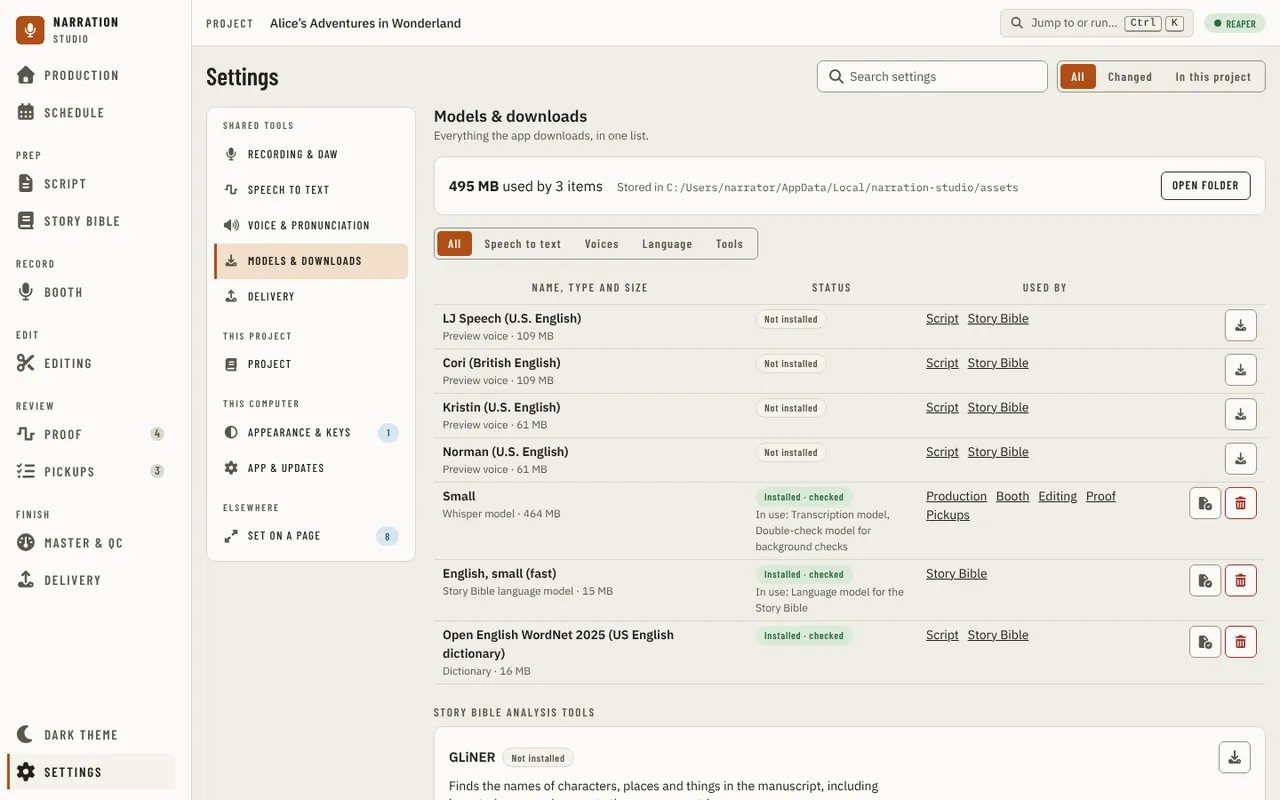
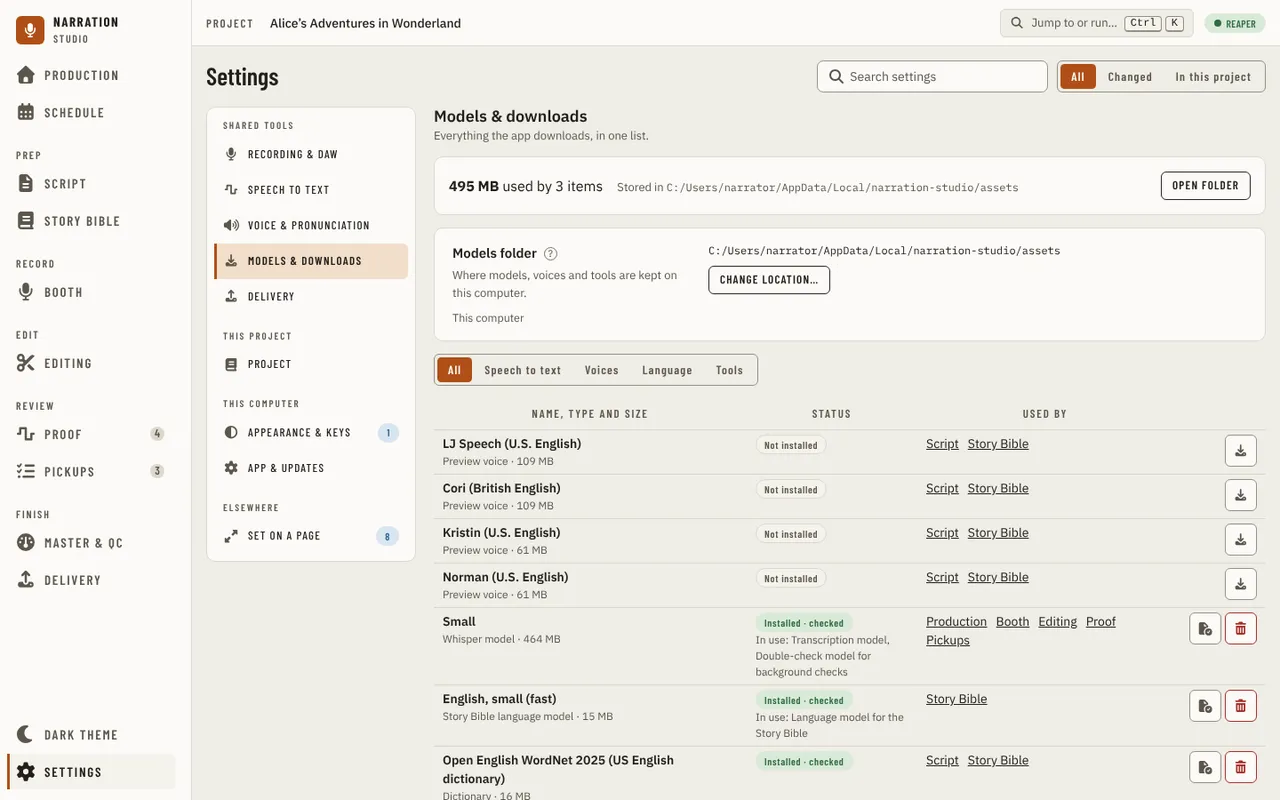
docs(settings): the Models folder in the guide, threat model, data files and screenshots
Claude-Session: https://claude.ai/code/session_01EBTykexrdZFchRHE5VJWsN

diff --git a/src/studio/ui/src/interactionFeedback/settings.ts b/src/studio/ui/src/interactionFeedback/settings.ts
@@ -31,7 +31,7 @@ export const settingsFeedback: Record<string, FeedbackRow> = {
   'src/components/settings/models/AssetsStore.tsx::assetsInstallState#1': row('effect', 'download', 'inline', 'na', 'poll', 'inline', 'no', 'ok', 'A download already running when the page opened is followed through the list activeJobId, so its bar is on screen at once.'),
   'src/components/settings/models/AssetsStore.tsx::assetsInstallState#2': row('timer', 'download', 'inline', 'na', 'poll', 'inline', 'no', 'ok', 'The install poll, every 400 ms: the bar moves with the bytes and a failed poll is written in the row.'),
   'src/components/settings/models/AssetsStore.tsx::assetsInstallCancel#1': row('click', 'download', 'inline', 'none', 'ui', 'inline', 'no', 'ok', 'Cancel is drawn only while bytes arrive; the page announces the cancel, or the row says why it could not be stopped.'),
-  'src/components/settings/models/AssetsStore.tsx::assetsFolderPick#1': row('click', 'os-dialog', 'dialog', 'dialog', 'ui', 'toast', 'no', 'ok', 'Change location asks first (a confirm that names what a move does), and its Choose a folder button opens the system folder dialog; the dialog is the acknowledgment and a second press is impossible behind it. Closing it without a folder starts nothing and says nothing; a refusal to open it is an error toast.'),
+  'src/components/settings/models/AssetsStore.tsx::assetsFolderPick#1': row('click', 'os-dialog', 'pending', 'pending', 'ui', 'toast', 'no', 'ok', 'Change location asks first (a confirm that names what a move does), and its Choose a folder button opens the system folder dialog; Change location spins and ignores another press until that dialog is answered. Closing it without a folder starts nothing and says nothing; a refusal to open it is an error toast.'),
   'src/components/settings/models/AssetsStore.tsx::assetsMoveStart#1': row('click', 'job', 'dialog', 'host', 'poll', 'toast', 'no', 'ok', 'Starts the copy, check and switch of the downloads to the chosen folder and opens the work dialog at once. The host refuses, before writing anything, a folder that cannot work (inside the current one, holding it, not empty, a file, relative), a download in progress, a second move and an unanswered old copy; each refusal is an error toast in the host words and no dialog. Reset on the row is the same call with an empty target, after its own confirm.'),
   'src/components/settings/models/AssetsStore.tsx::assetsMoveState#1': row('timer', 'job', 'dialog', 'na', 'poll', 'dialog', 'no', 'ok', 'The move poll, every 400 ms: the bar moves with the real bytes of the copy and the check, and a failed poll turns the work dialog to its error state with the reason and Close. The move itself runs in the host, so leaving Settings does not stop it.'),
   'src/components/settings/models/AssetsStore.tsx::assetsMoveState#2': row('effect', 'instant', 'na', 'na', 'poll', 'inline', 'yes', 'ok', 'A move already running when the page opened is followed, so its dialog is on screen; with none running it reads one small answer and draws nothing.'),

diff --git a/src/studio/ui/src/components/settings/models/ModelsFolder.tsx b/src/studio/ui/src/components/settings/models/ModelsFolder.tsx
@@ -45,6 +45,8 @@ export function ModelsFolderControl() {
   const store = useAssetsStore();
   const { catalog, move } = store;
   const [asking, setAsking] = useState<'change' | 'reset'>();
+  // The system's folder dialog is open: another press of Change location waits for it.
+  const [picking, setPicking] = useState(false);
   const [started, setStarted] = useState(() => Date.now());
   const [now, setNow] = useState(() => Date.now());
   const running = move !== undefined && isMoveRunning(move);
@@ -68,13 +70,15 @@ export function ModelsFolderControl() {
       await begin('');
       return;
     }
+    setPicking(true);
     const folder = await store.pickFolder();
+    setPicking(false);
     if (folder !== '') await begin(folder);
   };
 
   return (
     <>
-      <Button variant="secondary" size="sm" className="flex-none" onClick={() => setAsking('change')}>
+      <Button variant="secondary" size="sm" className="flex-none" pending={picking} onClick={() => setAsking('change')}>
         Change location…
       </Button>
       {catalog.custom && (

diff --git a/src/studio/ui/tests/visual/drivers/settings.ts b/src/studio/ui/tests/visual/drivers/settings.ts
@@ -297,7 +297,10 @@ export const settingsDrivers: Record<string, Driver> = {
     await startMove(page);
     await page.getByRole('progressbar', { name: 'Moving models and downloads progress' }).waitFor();
     await page.getByText('Copying the models to the new folder…').waitFor();
-    await page.getByText(/\d+(\.\d+)? (MB|GB) of /).waitFor();
+    await page
+      .getByText(/\d+(\.\d+)? (MB|GB) of /)
+      .first()
+      .waitFor();
   },
   'models-moved': async (page) => {
     await openModels(page, '?mockMove=moved');

diff --git a/docs/guides/using-the-app/settings.md b/docs/guides/using-the-app/settings.md
@@ -184,26 +184,8 @@ for longer.
 ## Models and downloads
 
 One list of everything the app can keep on this computer: Whisper models, Moonshine models, the preview voices, the Story Bible language models, the dictionary, the wiktionary pronunciations and the MP3 encoder. Nothing downloads by itself, and
-removing one never touches your projects. Above the list, the disk the installed ones use and the folder they are kept in, with **Open folder** to show it in the file manager. When the list cannot be read, the message offers **Retry** and **Open the folder**.
+removing one never touches your projects. Above the list, the disk the installed ones use and the folder they are kept in, with **Open folder** to show it in the file manager, and under it the **Models folder** row, which [moves them to another folder](#models-folder). When the list cannot be read, the message offers **Retry** and **Open the folder**.
 Which one is *used* is chosen in the category that uses it; here you only get, check and remove them.
-
-### Models folder
-
-Under the disk bar, **Models folder** is where the downloads are kept: the folder in use, **Change location…** and, once you have moved them, a reset button. It is also found by searching for "location" or "folder", and by the **Changed** filter once it is not the default. Its **?** says what a move does.
-
-**Change location…** asks first (the question is below), then opens your computer's folder dialog. Choose an empty folder (make a new one in the dialog if you like; a folder inside the current one, or one that already holds files, is refused). The app copies everything it has downloaded, checks every copied file against the original, and only then uses the new folder, at once and for every kind of download. A bar shows the bytes of both passes and **Cancel** stops the move. A move waits while a download runs, and no download starts during it.
-
-![Settings - Models & downloads: Change location asks before it opens the folder dialog](../../images/ui/settings-models-folder-asking.webp)
-
-![Settings - Models & downloads while the downloads are being moved: a progress bar and Cancel](../../images/ui/settings-models-moving.webp)
-
-If you cancel, or anything fails (the folder is read-only, the disk is full, a disk is unplugged, a copied file does not match), the dialog says why and your models are exactly where they were: nothing is deleted, nothing changes, and a half copy is removed.
-
-When a move has finished, the old copy is still on your disk. The row says so, with **Delete old copy…** and **Keep it**. Deleting asks first and removes only the downloaded models, voices and tools in that folder, never anything else you keep there. It is refused while something that may still read the old copy is running. **Keep it** leaves the folder alone and stops asking. Until you answer, another move is not offered.
-
-![Settings - Models & downloads after a move: the new folder in use and the old copy waiting for an answer](../../images/ui/settings-models-moved.webp)
-
-The reset button next to **Change location…** moves the downloads back to the default folder (the per-user cache folder) the same way: copy, check, switch, then offer to delete the copy you left.
 
 ![Settings - Models & downloads: the disk used and each download with its state, size, what uses it and its actions](../../images/ui/settings-models.webp)
 
@@ -219,6 +201,24 @@ Each row says what it is, its type and size, its **Status**, **Used by** (pages)
 ![Settings - Models & downloads checking the files of the Whisper model: Checking the files in its row and the check icon spinning](../../images/ui/settings-models-checking.webp)
 
 With nothing downloaded, the page (its **?** gives the size, about 600 MB) offers **Download the recommended set** (the Small transcription model and the preview voice). Below the list, **Story Bible analysis tools** lists the optional tools that make the Story Bible scan better (GLiNER, BookNLP small and large), each with what it does, its size, where it downloads from and the memory it needs, and the **Offer better analysis when scanning** box. GLiNER (about 730 MB) finds the names of characters, places and things, including invented ones; BookNLP groups the ways a character is named and works out who speaks each line. **Download** asks first; a Story Bible scan then runs the basic rules and each tool you have (with both BookNLP sizes, the large one). **Remove** deletes a tool, and the scan goes back to the rules and whatever else is installed. A tool whose download failed says why in a message that stays until dismissed, and its row has **Try again** and **Dismiss**; when the files arrived and matched but could not be unpacked or saved, **Details** under the reason names the file and what went wrong, which is what to quote in a report. The download dialog that other pages open shows the same line under **Live activity**.
+
+### Models folder
+
+Under the disk bar, **Models folder** is where the downloads are kept: the folder in use, **Change location…** and, once you have moved them, a reset button. It is also found by searching for "location" or "folder", and by the **Changed** filter once it is not the default. Its **?** says what a move does.
+
+**Change location…** asks first (the question is below), then opens your computer's folder dialog. Choose an empty folder (make a new one in the dialog if you like; a folder inside the current one, or one that already holds files, is refused). The app copies everything it has downloaded, checks every copied file against the original, and only then uses the new folder, at once and for every kind of download. A bar shows the bytes of both passes and **Cancel** stops the move. A move is refused while a download runs, and no download starts during one.
+
+![Settings - Models & downloads: Change location asks before it opens the folder dialog](../../images/ui/settings-models-folder-asking.webp)
+
+![Settings - Models & downloads while the downloads are being moved: a progress bar and Cancel](../../images/ui/settings-models-moving.webp)
+
+If you cancel, or anything fails (the folder is read-only, the disk is full, a disk is unplugged, a copied file does not match), the dialog says why and your models are exactly where they were: nothing is deleted, nothing changes, and a half copy is removed.
+
+When a move has finished, the old copy is still on your disk. The row says so, with **Delete old copy…** and **Keep it**. Deleting asks first and removes only the downloaded models, voices and tools in that folder, never anything else you keep there. It is refused while something that may still read the old copy is running. **Keep it** leaves the folder alone and stops asking. Until you answer, another move is not offered.
+
+![Settings - Models & downloads after a move: the new folder in use and the old copy waiting for an answer](../../images/ui/settings-models-moved.webp)
+
+The reset button next to **Change location…** moves the downloads back to the default folder (the per-user cache folder) the same way: copy, check, switch, then offer to delete the copy you left.
 
 ## Delivery
 

diff --git a/docs/reference/data-files.md b/docs/reference/data-files.md
@@ -118,7 +118,7 @@ Files under `%APPDATA%\<data>` (if `APPDATA` is empty, `%USERPROFILE%\AppData\Ro
 
 | File | Location | Written by | Read by | Schema or golden | Retention | Notes |
 | --- | --- | --- | --- | --- | --- | --- |
-| [`global-settings.json`](../../src/studio/desktop/internal/settings/store.go) | `global-settings.json` | `SystemSaveSettings` (global scope), `WindowSaveZoom`, `AssetsMoveStart` and `AssetsMoveKeepOld` (the `Assets` section) | Every setting through `Store.Effective`; startup reads the debug-logging flag | `settings-*.json` (binding) | Kept. Deleting it loses every global setting and key binding | Kept aside; no version. A closed-choice key holding an unknown value, or a whole-number key outside its range, is skipped, as in the project file. `Teleprompter.input_source` (`daw` by default, or `chosen`) is whose microphone the Booth listens to while a DAW records; only the narrator's **Choose a different one** writes `chosen`, so a `Teleprompter.input_device` saved before the key existed stays the microphone for when no DAW records and never outranks the DAW's input. **Names a program the host runs**: `DAW.reaper_path` (see the project `settings.json` row). **Names a folder the host reads and writes**: `Assets.models_folder` is the folder the downloads are kept in when the narrator moved them (absent: the per-user cache folder); `Assets.previous_models_folder` is the old copy a finished move left, until the narrator deletes or keeps it. Only the move writes either: the `Assets` tool is not one `SystemSaveSettings` accepts, so the folder cannot change without its files ([threat model](../architecture/threat-model.md) row 1l) |
+| [`global-settings.json`](../../src/studio/desktop/internal/settings/store.go) | `global-settings.json` | `SystemSaveSettings` (global scope), `WindowSaveZoom`, `AssetsMoveStart`, `AssetsMoveDeleteOld` and `AssetsMoveKeepOld` (the `Assets` section) | Every setting through `Store.Effective`; startup reads the debug-logging flag | `settings-*.json` (binding) | Kept. Deleting it loses every global setting and key binding | Kept aside; no version. A closed-choice key holding an unknown value, or a whole-number key outside its range, is skipped, as in the project file. `Teleprompter.input_source` (`daw` by default, or `chosen`) is whose microphone the Booth listens to while a DAW records; only the narrator's **Choose a different one** writes `chosen`, so a `Teleprompter.input_device` saved before the key existed stays the microphone for when no DAW records and never outranks the DAW's input. **Names a program the host runs**: `DAW.reaper_path` (see the project `settings.json` row). **Names a folder the host reads and writes**: `Assets.models_folder` is the folder the downloads are kept in when the narrator moved them (absent: the per-user cache folder); `Assets.previous_models_folder` is the old copy a finished move left, until the narrator deletes or keeps it. Only the move writes either: the `Assets` tool is not one `SystemSaveSettings` accepts, so the folder cannot change without its files ([threat model](../architecture/threat-model.md) row 1l) |
 | [`recent-projects.json`](../../src/studio/desktop/internal/recents/store.go) | `recent-projects.json` | `ProjectSwitch` (also after `ProjectCreateIn`), `ProjectRemoveRecent`, `ProjectSetPinned` | `ProjectRecents`, `ProjectRunningDaw` (reads the linked folders' manifests, not this file's content, beyond the list) | `tests/fixtures/contracts/project-recents.json` (the binding returns the file's entries, each with `pinned`) | 10 unpinned entries, stored as absolute paths; one folder is one entry however it is spelled (case, junction); a pinned entry is kept past the cap, an entry whose path is gone or is no longer a folder is dropped (pinned or not). A file from before pins reads as unpinned. Safe to delete | Healed; no version. Names project folders, which the host only checks exist until the narrator picks one |
 | [`credit-templates.json`](../../src/studio/desktop/internal/credits/templates.go) | `credit-templates.json` | `CreditsTemplates` (writes the shipped defaults on first use), `CreditsSaveTemplate`, `CreditsDuplicateTemplate`, `CreditsDeleteTemplate` | Those bindings and credits setup | `tests/fixtures/contracts/credits-templates.json` (binding) | Kept. Deleting it loses the narrator's own templates; the defaults come back | Kept aside. A newer version is also kept aside, not refused, and the defaults are written in its place |
 | [`room-tone.json`](../../src/studio/desktop/internal/roomtone/roomtone.go) | `room-tone.json` | Any capture of a microphone: a reading session during a take, or the level meter while the Booth's Levels menu is open (every 5 s once 5 s are heard, and when it ends) | `TeleprompterRoomTone` (the Booth footer and the Production measurements) | `tests/fixtures/contracts/teleprompter-room-tone-*.json` (binding); the file is `{"version": 1, "devices": {"<device name>": {"db", "measuredAt", "seconds"}}}` | One reading per microphone ever measured, by the device name the capture opened; the next capture of it replaces it. Safe to delete: the next capture measures again | Healed: a file that cannot be decoded, of another version, or with a reading no capture could make (above 0 dBFS, at or below −96 dBFS, under 5 s heard, no time, no device name) reads as empty. Names no path, program or URL |

diff --git a/docs/design/design-system.md b/docs/design/design-system.md
@@ -280,7 +280,7 @@ The Settings page always keeps every setting. A working page may also offer a co
 
 **This version.** App & updates ends with a **This version** section: a section label and a flush card of two rows in the settings row's columns, the product name and licence beside the version, and **Updates** beside one status block (a headline, one muted detail line with the day of the last check written "Sep 21, 2026", any failure under them, then one wrapping row of buttons with the main action first and **Check now** last). It replaces two grey boxes and a loose licence line inside an unlabelled card (alignment audit XSE1-7, R3SE2-18, R3SE1-5, XSE1-6).
 
-**Models & downloads.** The Models & downloads list is one table row per asset (`src/studio/ui/src/components/settings/models/AssetRow.tsx`): the asset name and what it is for, a status badge in words, the pages that read it, a `ProgressBar` while it downloads, a failure as `role="alert"` in the row, and its actions as icon buttons in the last cell, right-aligned. An installed row has **Check the files** (the `checkFiles` icon) before Remove, which supersedes the mock's installed row of Remove alone (`docs/research/mockups/studio-next/src/pages/settings/ModelsPane.tsx` line 35) by owner decision on issue 2731: while it checks, the row draws the download's checking look with the check button spinning and Remove hidden. The columns are fixed (`Table columns`, `ASSET_COLUMNS`: the name takes what is left, Status 12rem, Used by 18rem, actions 6.5rem), so the table keeps one shape in every state and no column wraps its links early (alignment audit XSE1-5, XSE2-25). Below the page container's 1020 px the table becomes cards on `--surface`, one per asset: the name with its actions at the top right, then Status and Used by, each named by its label (XSE2-27). The disk bar keeps **Open folder** at its right end, and the **Models folder** row (a registry row, so search, Changed and its `?` reach it) sits in its own panel under the bar with the folder in use, **Change location…** (a secondary small button; the mock puts it in the bar, here it is the row so the reset and the old-copy offer have a home) and, once moved, the reset icon; a move is a `WorkDialog` with Cancel, a failure is written in that dialog, and the old copy waits behind **Delete old copy…** (a danger confirm) and **Keep it**, and the Story Bible analysis tools sit in an untitled card under their section label, like the list above them (XSE1-17). The segmented filter stays on one line and scrolls sideways when the page is narrower. The page announces progress and results in one live region.
+**Models & downloads.** The Models & downloads list is one table row per asset (`src/studio/ui/src/components/settings/models/AssetRow.tsx`): the asset name and what it is for, a status badge in words, the pages that read it, a `ProgressBar` while it downloads, a failure as `role="alert"` in the row, and its actions as icon buttons in the last cell, right-aligned. An installed row has **Check the files** (the `checkFiles` icon) before Remove, which supersedes the mock's installed row of Remove alone (`docs/research/mockups/studio-next/src/pages/settings/ModelsPane.tsx` line 35) by owner decision on issue 2731: while it checks, the row draws the download's checking look with the check button spinning and Remove hidden. The columns are fixed (`Table columns`, `ASSET_COLUMNS`: the name takes what is left, Status 12rem, Used by 18rem, actions 6.5rem), so the table keeps one shape in every state and no column wraps its links early (alignment audit XSE1-5, XSE2-25). Below the page container's 1020 px the table becomes cards on `--surface`, one per asset: the name with its actions at the top right, then Status and Used by, each named by its label (XSE2-27). The disk bar keeps **Open folder** at its right end, and the **Models folder** row (a registry row, so search, Changed and its `?` reach it) sits in its own panel under the bar with the folder in use, **Change location…** (a secondary small button; this supersedes the mock's line that puts it in the disk bar and its confirm text "then removed from this one": here it is the row, so search, Changed, the reset and the old-copy offer have a home, and the old copy stays until the narrator deletes it, issue 2990) and, once moved, the reset icon; a move is a `WorkDialog` with Cancel, a failure is written in that dialog, and the old copy waits behind **Delete old copy…** (a danger confirm) and **Keep it**, and the Story Bible analysis tools sit in an untitled card under their section label, like the list above them (XSE1-17). The segmented filter stays on one line and scrolls sideways when the page is narrower. The page announces progress and results in one live region.
 
 **Known at 390 px, outside Settings** (found by a one-off sweep of every state at that width; the collapsed-control check passes everywhere): the Proofing results header and table (#148), the Home chapter table (#149) and a three-action confirm dialog (#150) are clipped or cramped. They need layout decisions and are reachable only by zoom, since the shell's minimum window is 960 px.
 
